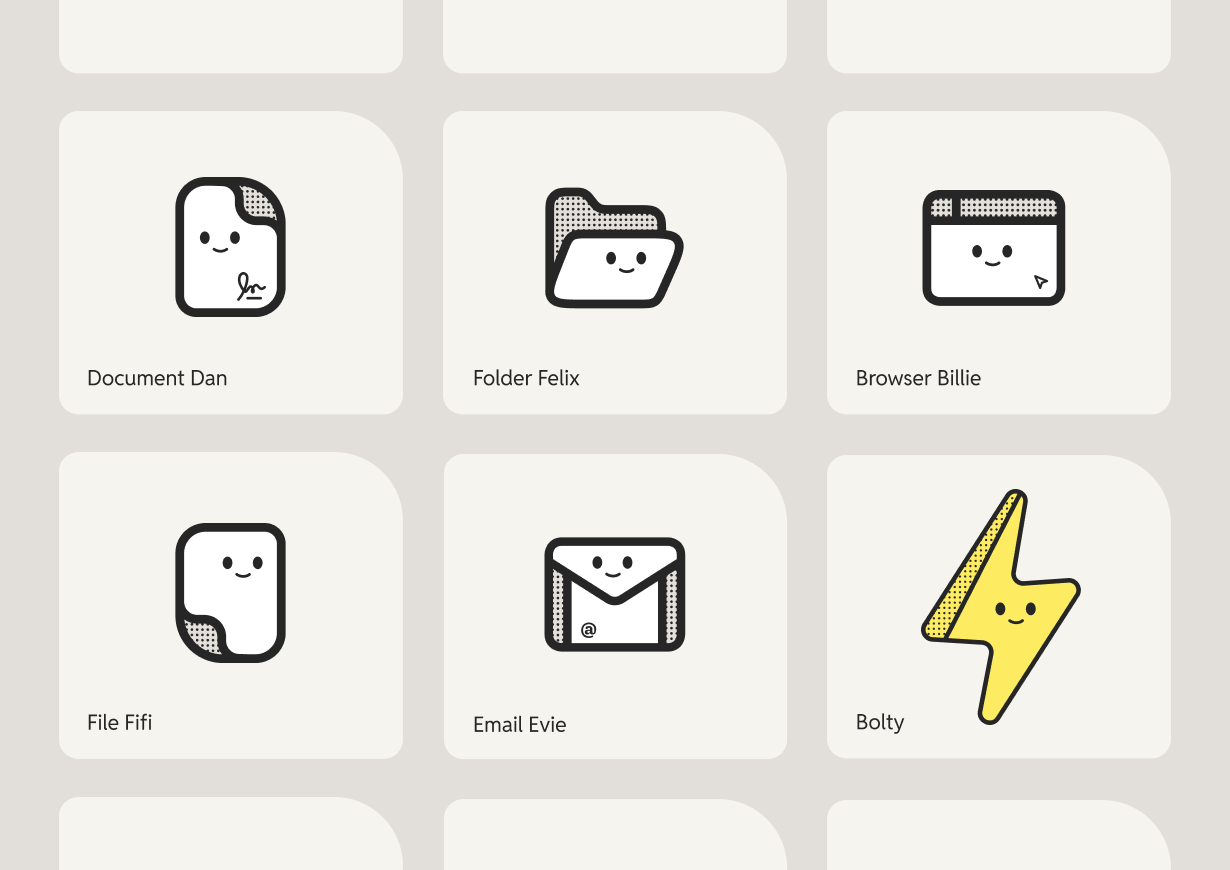
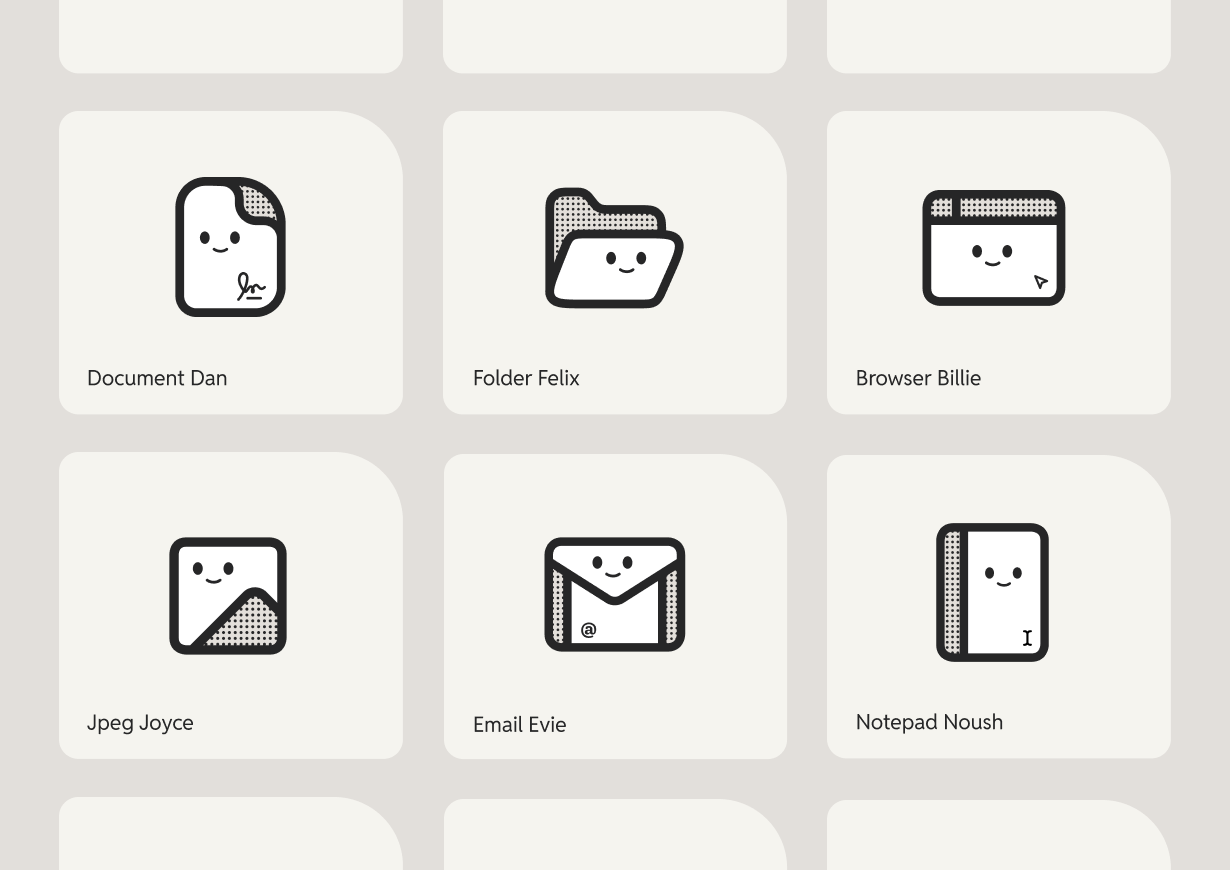
fix: mascots

Changed region(s): [[0.6797, 0.5586, 0.8959, 0.8379], [0.1236, 0.5897, 0.2472, 0.7759], [0.0618, 0.8069, 0.1545, 0.8379]]

diff --git a/case-studies/suitefiles/index.html b/case-studies/suitefiles/index.html
@@ -147,12 +147,12 @@
 					<h4>Credits</h4>
 					<ul>
 						<li>
-							<span class="opacity">Brand:</span> <a href="https://www.linkedin.com/in/biljanamdz/">Browser Billie</a>, <a href="https://www.linkedin.com/in/joyceoriley/">Joyce O’Riley</a>, Noush Isaac,
+							<span class="opacity">Brand:</span> <a href="https://www.linkedin.com/in/biljanamdz/">Browser Billie</a>, <a href="https://www.linkedin.com/in/joyceoriley/">Jpeg Joyce</a>, Notepad Noush,
 							<a href="https://www.linkedin.com/in/danserif/">Document Dan</a>
 						</li>
 						<li>
 							<span class="opacity">Website:</span> <a href="https://growmybusiness.co.nz">Grow My Business</a>, <a href="https://www.linkedin.com/in/biljanamdz/">Browser Billie</a>,
-							<a href="https://www.linkedin.com/in/joyceoriley/">Joyce O’Riley</a>, Noush Isaac, <a href="https://www.linkedin.com/in/danserif/">Document Dan</a>
+							<a href="https://www.linkedin.com/in/joyceoriley/">Jpeg Joyce</a>, Notepad Noush, <a href="https://www.linkedin.com/in/danserif/">Document Dan</a>
 						</li>
 						<li><span class="opacity">Messaging & Content:</span> Noush Isaac</li>
 					</ul>
